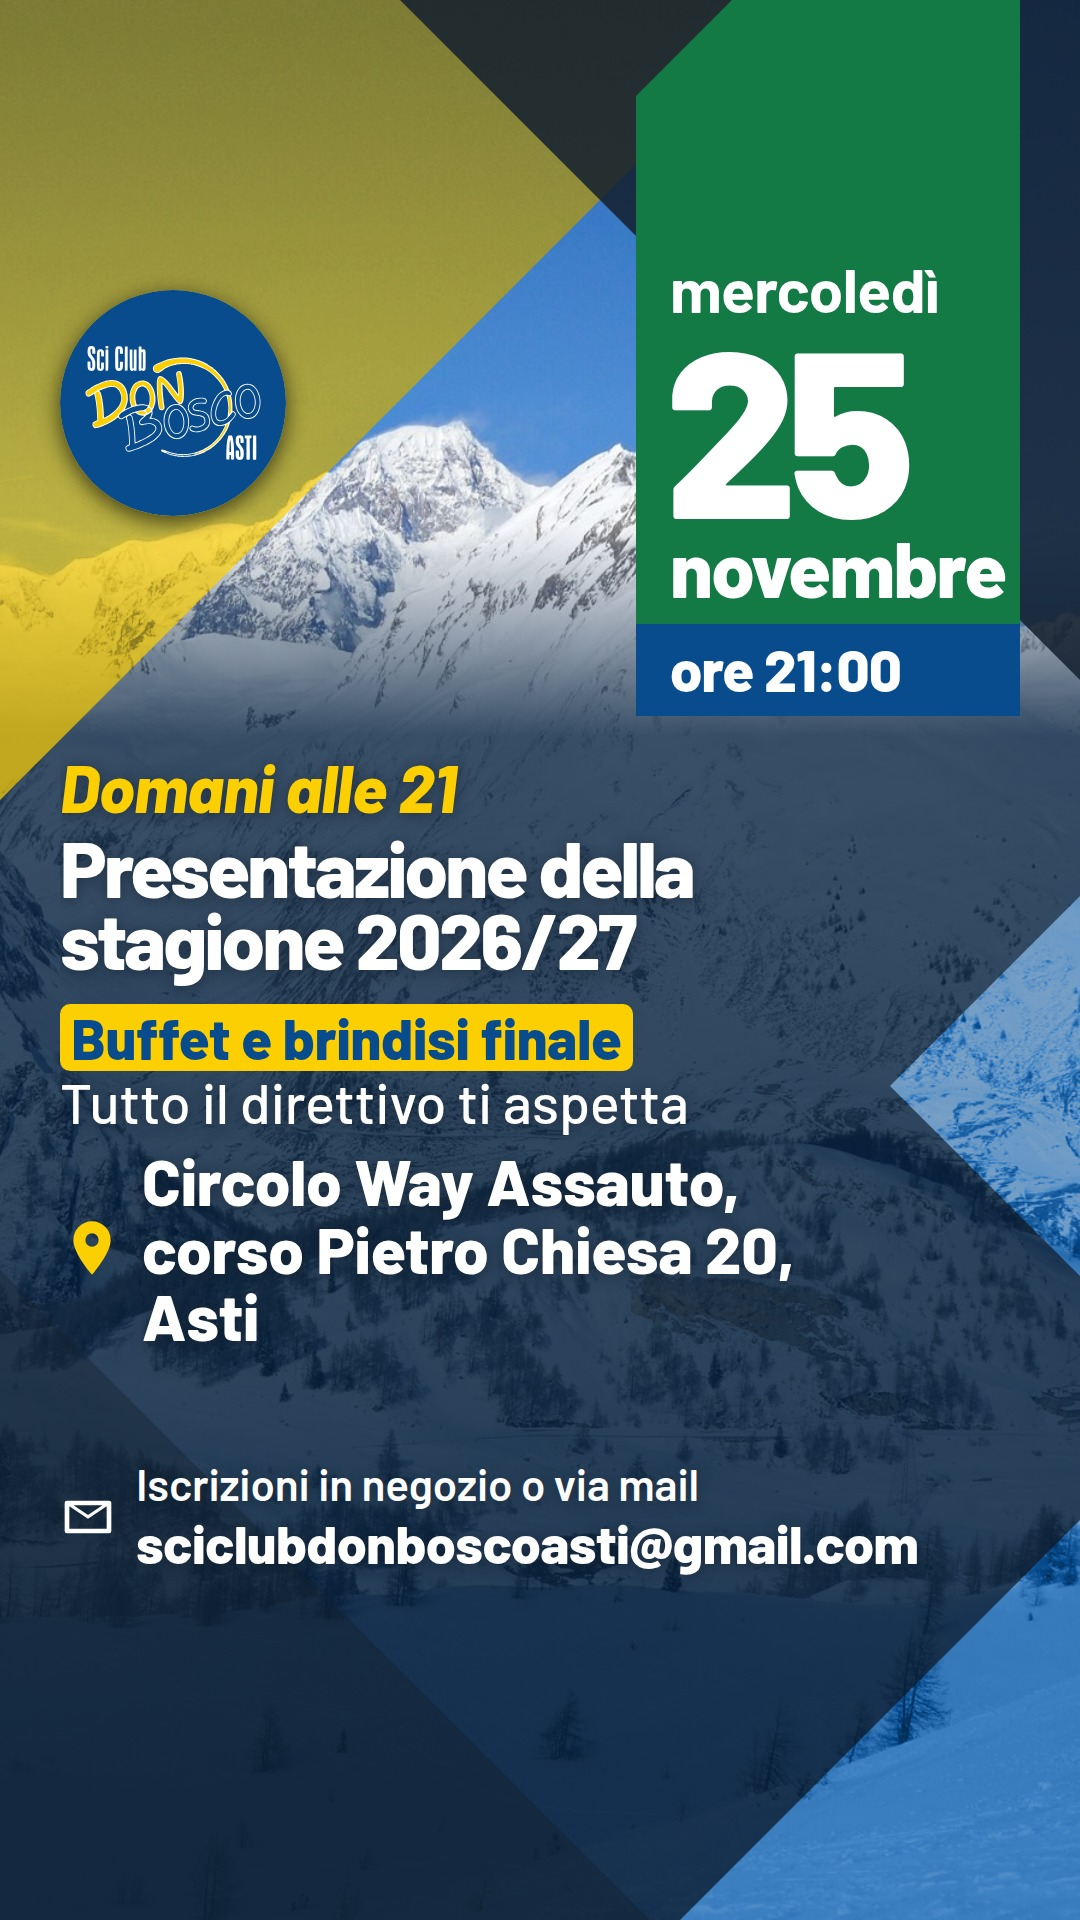
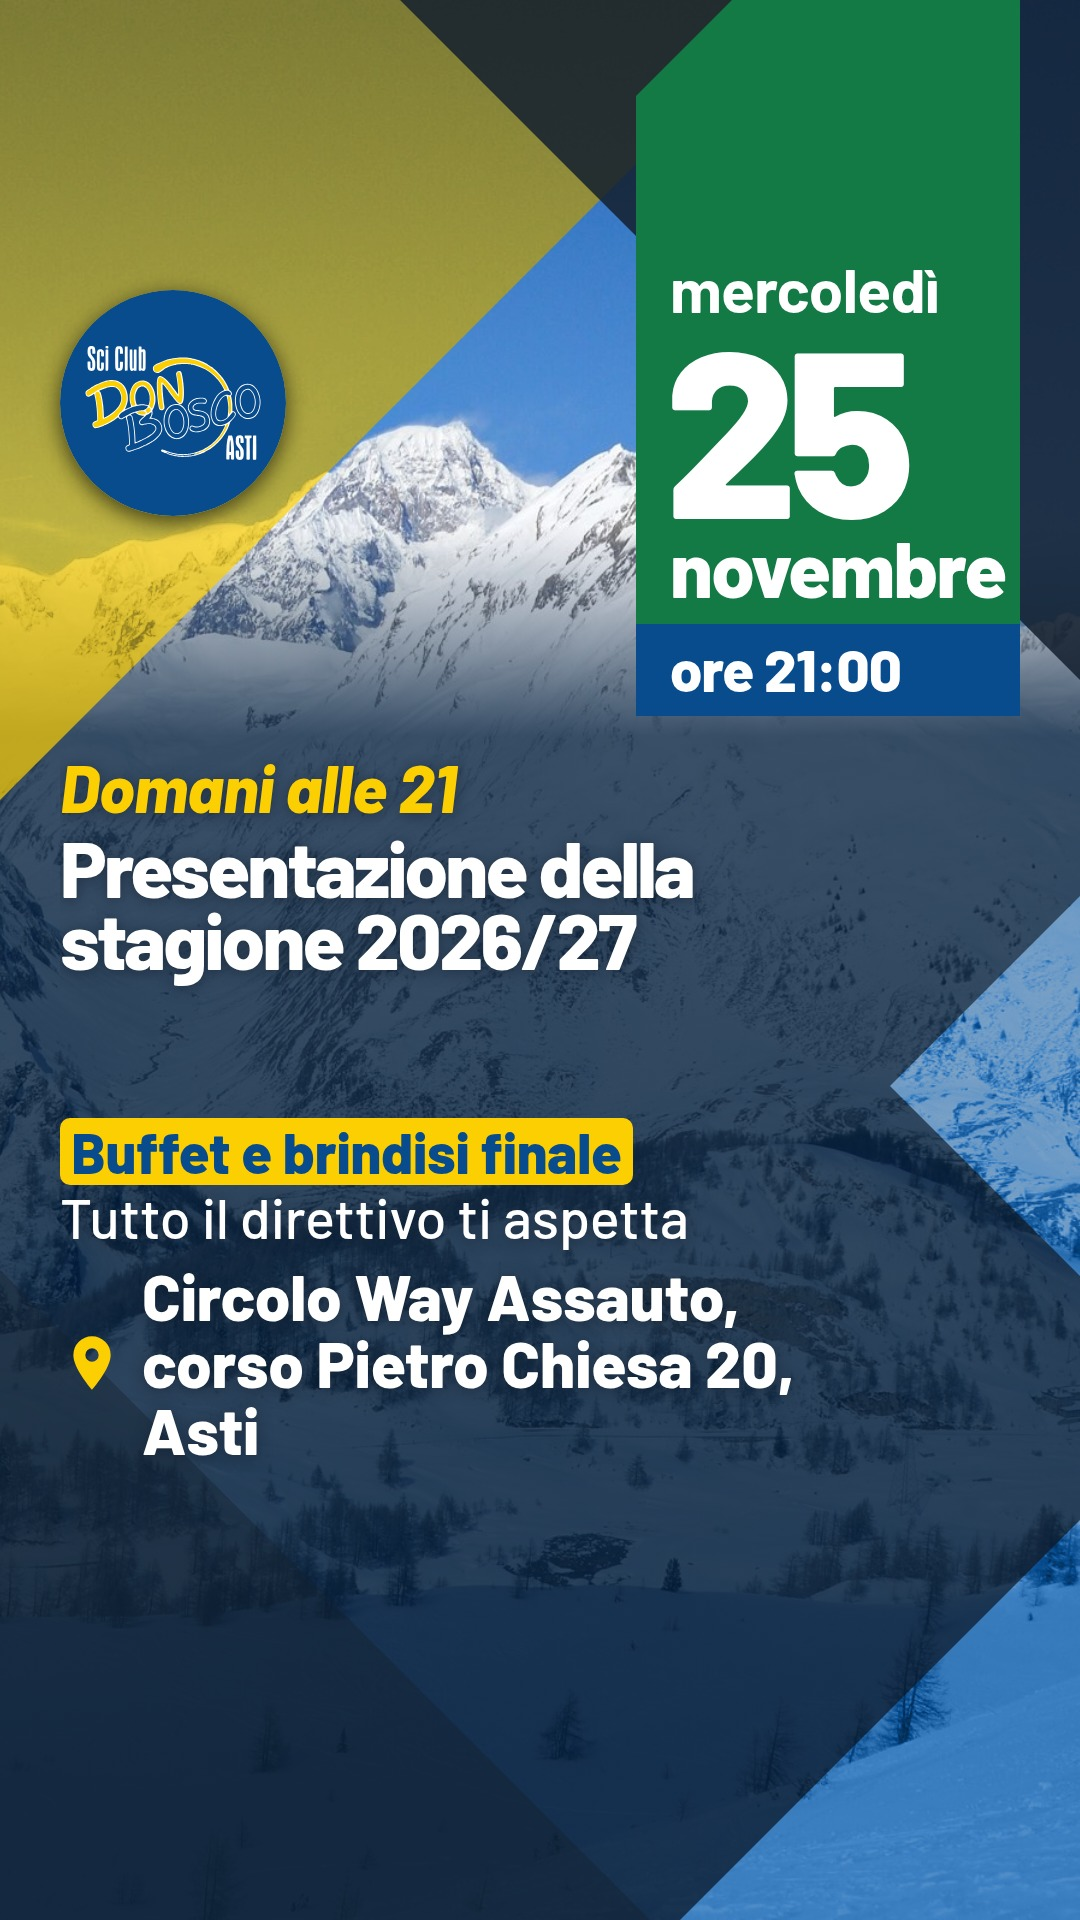
fix(grafica): storie della serata senza «Iscrizioni in negozio o via mail»
Per ricordare la serata la riga non serve: tolta da «Domani alle 21» e da «Stasera alle 21» con
una regola nella sola pagina delle storie, il generatore non cambia. Pagine PRONTO [].

Changed region(s): [[0.0306, 0.5, 0.8556, 0.8125]]

diff --git a/grafica/lancio-stagione/sorgenti/pagine.html b/grafica/lancio-stagione/sorgenti/pagine.html
@@ -55,7 +55,9 @@
     };
     const promemoria = (hook) => drawPost(postTemplate({ ...SERATA_EV, hook }, "story"));
     // La vetta spostata a sinistra della data (photo_x 70), nello spazio libero fra il logo e la tessera verde.
-    const promemoriaMonte = (hook) => drawPost(postTemplate({ ...SERATA_EV, hook, photo: "foto-monte-bianco.jpg", photo_x: 70, photo_y: 30 }, "story"));
+    // Senza la riga «Iscrizioni in negozio o via mail» (24/11): per ricordare la serata non serve.
+    const promemoriaMonte = (hook) => drawPost(postTemplate({ ...SERATA_EV, hook, photo: "foto-monte-bianco.jpg", photo_x: 70, photo_y: 30 }, "story"))
+      + "<style>.isc { display: none !important; }</style>";
 
     const COPERTINA = `<div class="pagina">
       <img id="logo-grande" src="${SOCIAL.logoTondo}" alt="Sci Club Don Bosco Asti">
